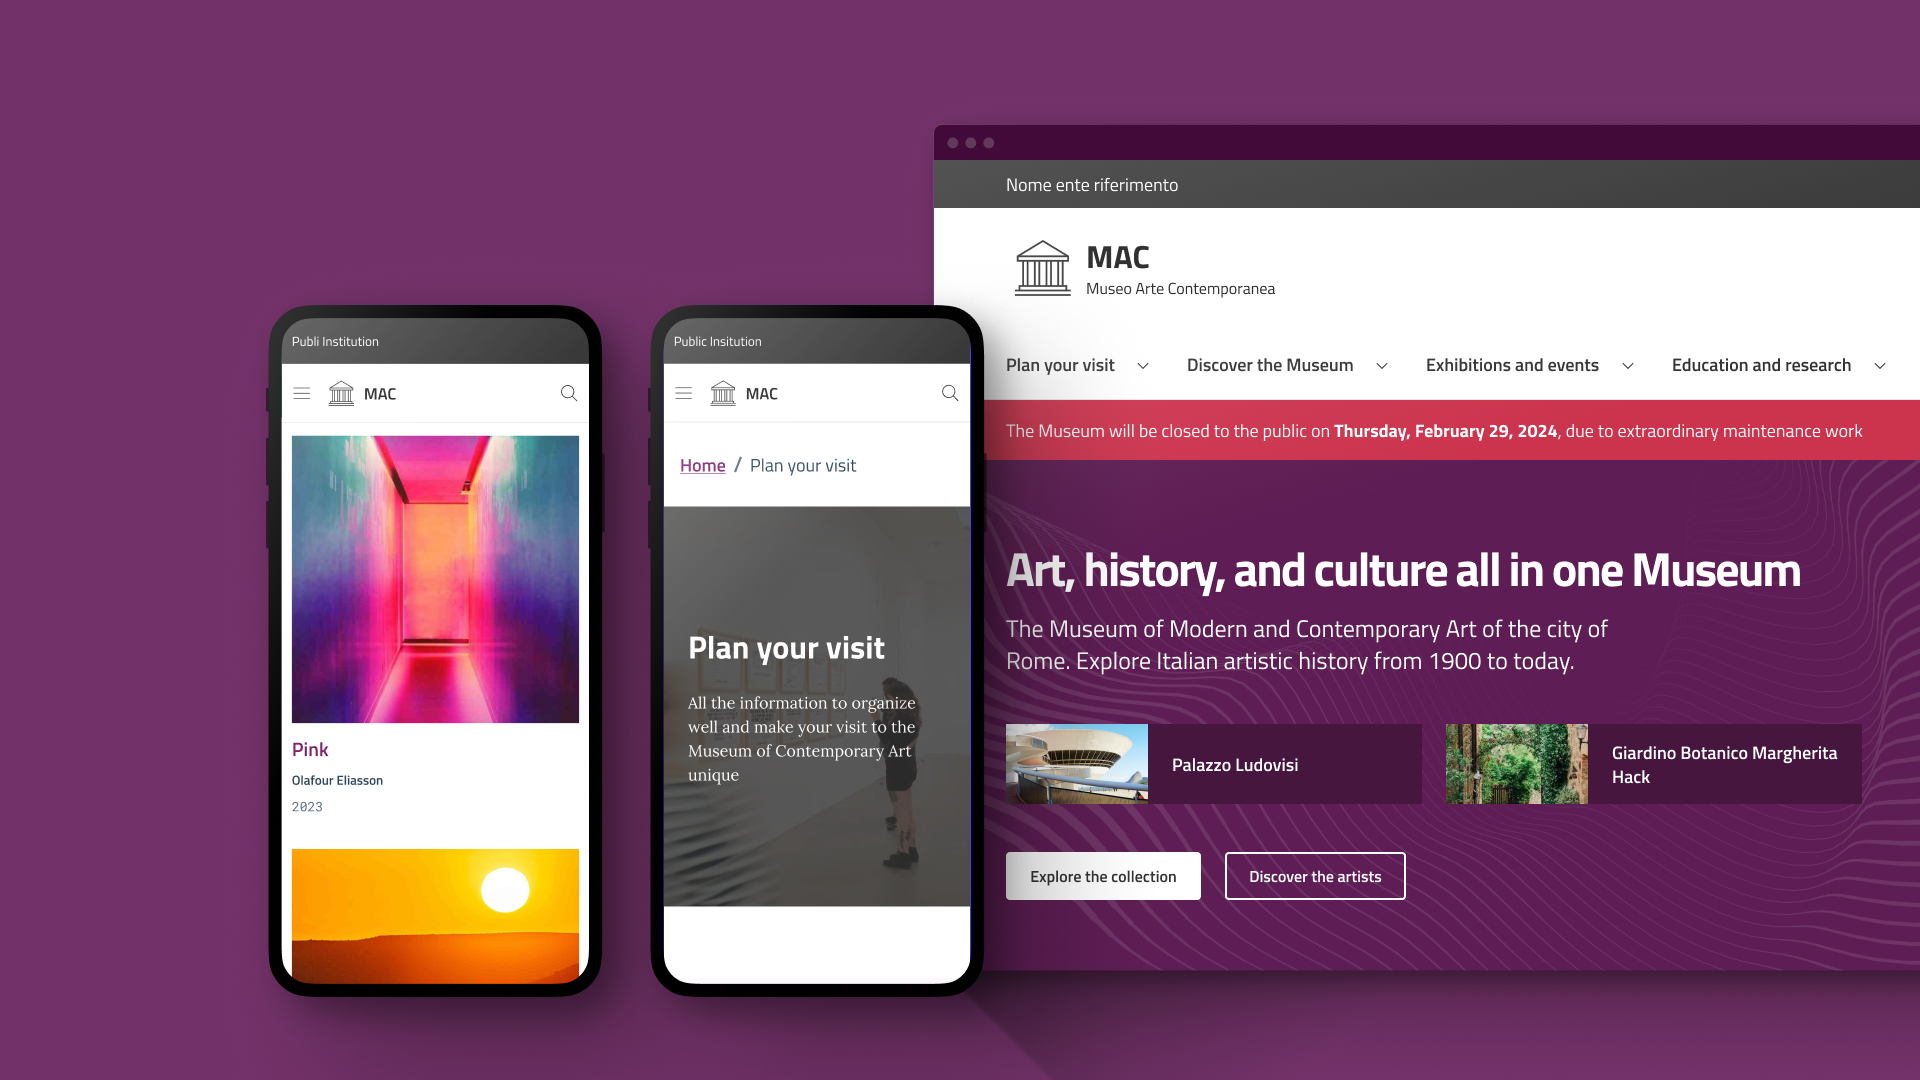
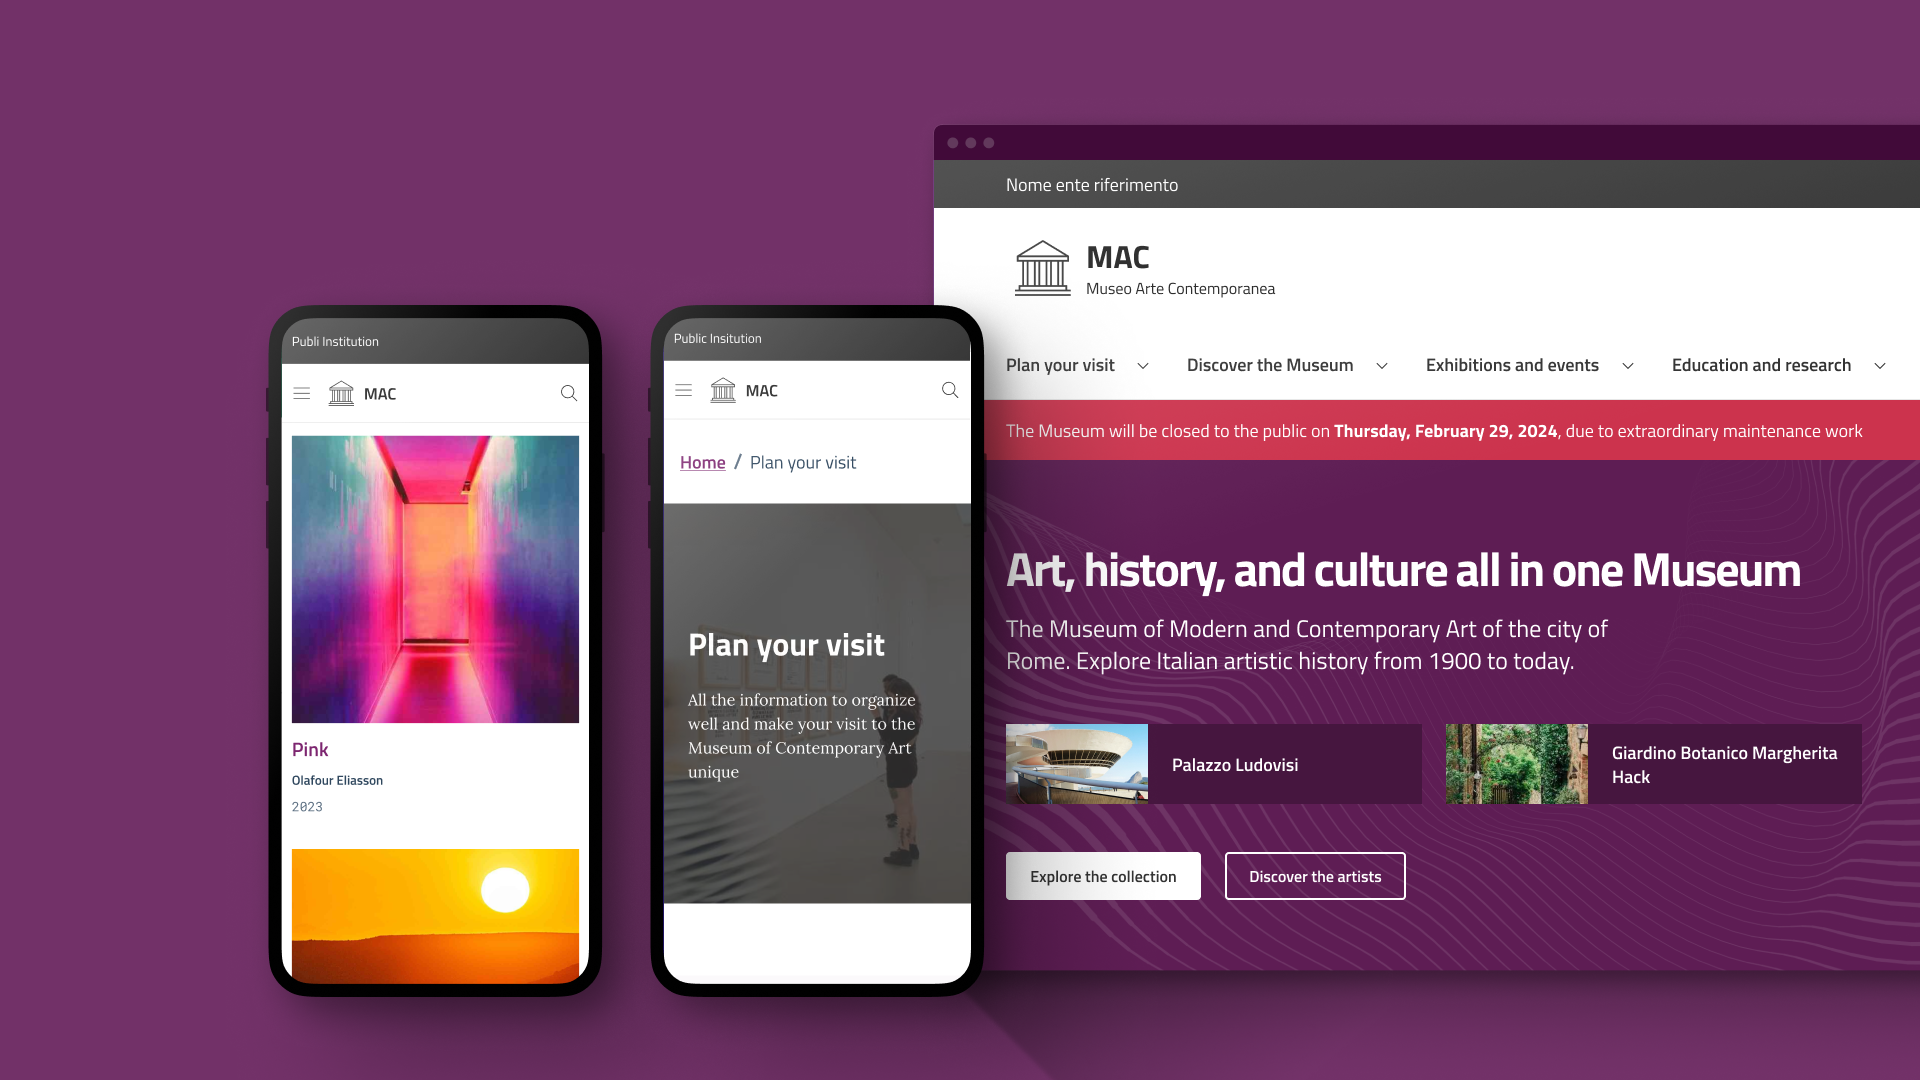
feat: enhance digital services section with new platform details and usability testing images

diff --git a/css/tw-compiled.css b/css/tw-compiled.css
@@ -285,6 +285,9 @@
   .col-span-3 {
     grid-column: span 3 / span 3;
   }
+  .col-span-6 {
+    grid-column: span 6 / span 6;
+  }
   .col-span-7 {
     grid-column: span 7 / span 7;
   }
@@ -1134,6 +1137,9 @@
   .grid-cols-2 {
     grid-template-columns: repeat(2, minmax(0, 1fr));
   }
+  .grid-cols-6 {
+    grid-template-columns: repeat(6, minmax(0, 1fr));
+  }
   .grid-cols-12 {
     grid-template-columns: repeat(12, minmax(0, 1fr));
   }
@@ -1749,6 +1755,13 @@
         @supports (color: color-mix(in lab, red, red)) {
           background-color: color-mix(in oklab, var(--color-secondary) 60%, transparent);
         }
+      }
+    }
+  }
+  .hover\:text-accent {
+    &:hover {
+      @media (hover: hover) {
+        color: var(--color-accent);
       }
     }
   }

diff --git a/_work/digital-services-italian-pa/index.md b/_work/digital-services-italian-pa/index.md
@@ -93,6 +93,14 @@ The website template was designed to be used in a wide range of civic museums, f
 
 I tested the website template with a range of users, including museum staff, visitors, and local residents (both in italian and english), to ensure it was easy to use and understand.
 
+## PA Digitale 2026
+
+![PA Digitale 2026](/img/work/digital-public-services/padigitale2026.webp)
+
+I coordinated the redesign of the online platform for the Italian Public Administration, to help public institutions get access to financial resources to build digital services. 
+
+The platform is built on the national design system using UI Kit Italia and Bootstrap Italia for the front-end. Content is managed through a custom installation of Dato CMS.
+
 ## Full Design Cycle
 
 Alongside each model, I produced a complete set of operational resources designed to make the compliant path the easiest to follow:
@@ -122,6 +130,12 @@ Step-by-step documentation on how to write content, structure pages, and configu
 ### Usability and accessibility testing
 
 Every model and its components were validated with real users and against the legal accessibility requirements, so adopters inherited that testing for free.
+
+<div class="grid grid-cols-2 gap-4 mb-6">
+  <img src="/img/work/digital-public-services/usability-testing-01.webp" alt="Usability and accessibility testing" class="w-full object-cover">
+  <img src="/img/work/digital-public-services/usability-testing-02.webp" alt="Usability and accessibility testing" class="w-full object-cover">
+</div>
+
 
 ### Manage development handoff
 
